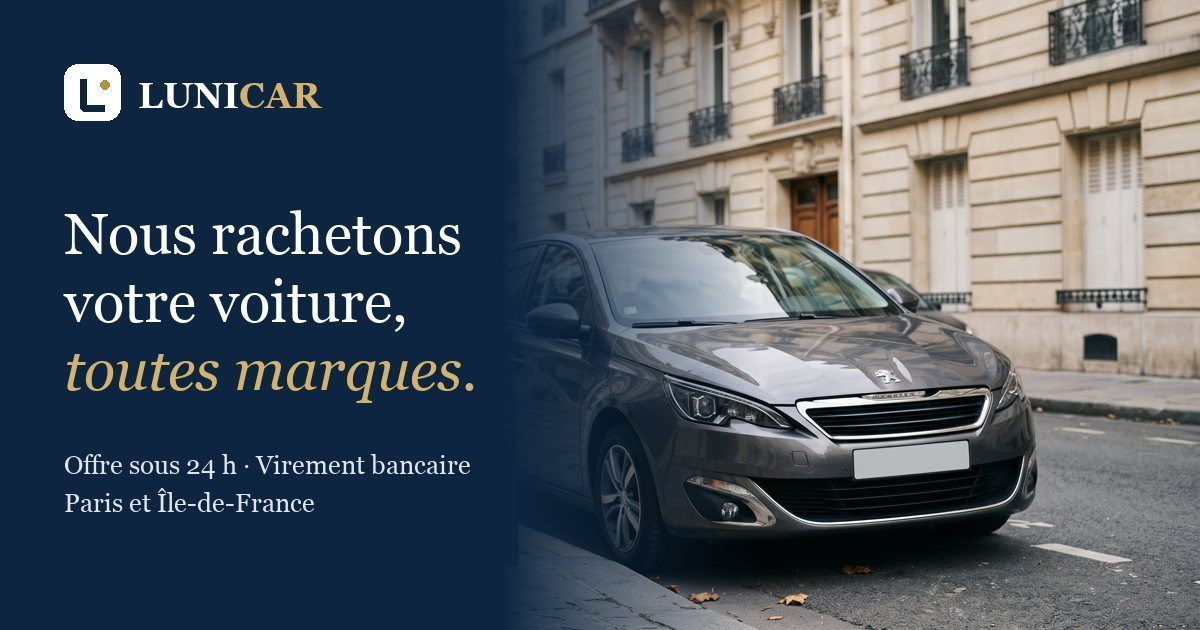
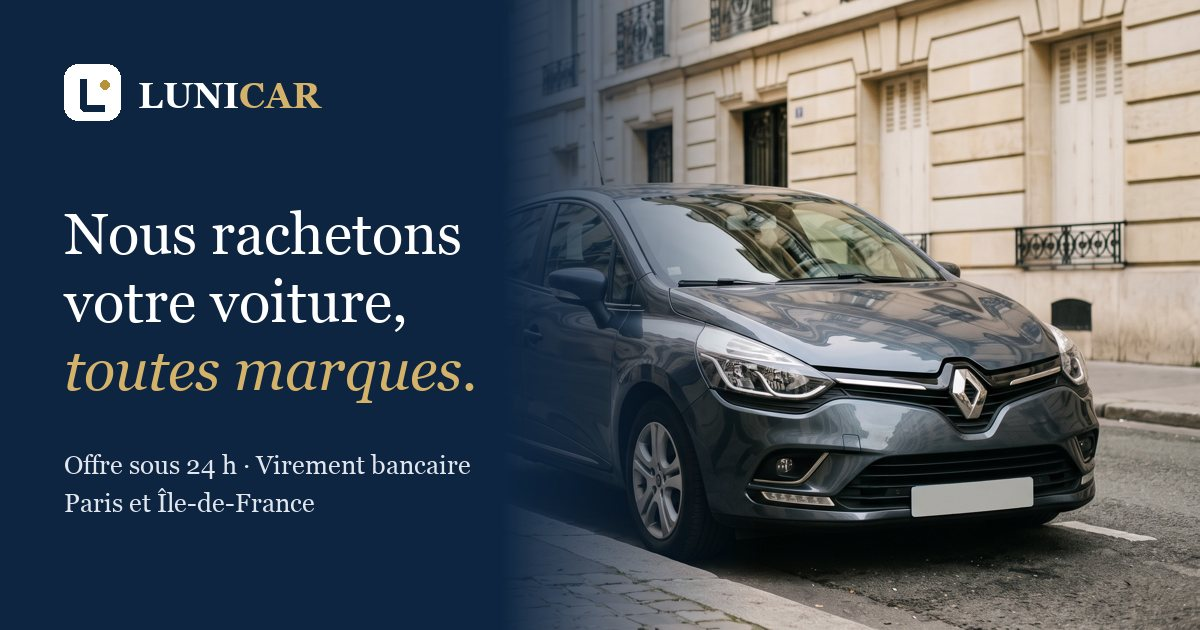
feat(design): Clio 4 en image d'accueil, photos versionnées
- Photo d'accueil : Renault Clio IV (phase 2) dans une rue haussmannienne,
  image de partage régénérée (tools/make_og.py, rejouable).
- Les photos et l'image OG sont appelées avec ?v=<version> : un navigateur ne
  peut plus afficher une ancienne photo gardée en cache 30 jours.
- Vitrine : colonne photo élargie, cadrage centré sur la voiture, saisie de
  plaque empilée pour ne plus tronquer l'immatriculation.

diff --git a/lib/layout.js b/lib/layout.js
@@ -475,7 +475,8 @@ function callback(title) {
 // Hero commun : texte à gauche, formulaire à droite (dessous sur mobile).
 function photo(name, alt, cls, eager) {
     if (!name) return '';
-    return `<picture class="${cls}"><img src="/images/photos/${name}-1600.webp" srcset="/images/photos/${name}-800.webp 800w, /images/photos/${name}-1600.webp 1600w" sizes="100vw" alt="${esc(alt || '')}" width="1600" height="893"${eager ? ' fetchpriority="high"' : ' loading="lazy" decoding="async"'}></picture>`;
+    const v = SITE.assetVersion;
+    return `<picture class="${cls}"><img src="/images/photos/${name}-1600.webp?v=${v}" srcset="/images/photos/${name}-800.webp?v=${v} 800w, /images/photos/${name}-1600.webp?v=${v} 1600w" sizes="100vw" alt="${esc(alt || '')}" width="1600" height="893"${eager ? ' fetchpriority="high"' : ' loading="lazy" decoding="async"'}></picture>`;
 }
 
 // Bande photo pleine largeur entre deux sections, avec légende.
@@ -644,7 +645,7 @@ function page(o) {
     <meta property="og:url" content="${url}">
     <meta property="og:title" content="${esc(o.ogTitle || o.title)}">
     <meta property="og:description" content="${esc(o.description)}">
-    <meta property="og:image" content="${SITE.baseUrl}/images/og-lunicar.jpg">
+    <meta property="og:image" content="${SITE.baseUrl}/images/og-lunicar.jpg?v=${v}">
     <meta property="og:image:width" content="1200">
     <meta property="og:image:height" content="630">
     <meta property="og:locale" content="fr_FR">
@@ -653,7 +654,7 @@ function page(o) {
     ${o.modified ? `<meta property="article:modified_time" content="${o.modified}">` : ''}
     <link rel="preload" href="/fonts/fraunces-normal.woff2" as="font" type="font/woff2" crossorigin>
     <link rel="preload" href="/fonts/dmsans-normal.woff2" as="font" type="font/woff2" crossorigin>
-    ${o.preloadImage ? `<link rel="preload" as="image" href="/images/photos/${o.preloadImage}-1600.webp" imagesrcset="/images/photos/${o.preloadImage}-800.webp 800w, /images/photos/${o.preloadImage}-1600.webp 1600w" imagesizes="100vw" fetchpriority="high">` : ''}
+    ${o.preloadImage ? `<link rel="preload" as="image" href="/images/photos/${o.preloadImage}-1600.webp?v=${v}" imagesrcset="/images/photos/${o.preloadImage}-800.webp?v=${v} 800w, /images/photos/${o.preloadImage}-1600.webp?v=${v} 1600w" imagesizes="100vw" fetchpriority="high">` : ''}
     <link rel="stylesheet" href="/css/app.css?v=${v}">
     <link rel="stylesheet" href="/css/cookie-consent.css?v=${v}">
     ${schemas}

diff --git a/public/css/app.css b/public/css/app.css
@@ -519,13 +519,15 @@ body { padding-bottom: var(--bar-h); }
     .contact-grid { grid-template-columns: .8fr 1.2fr; gap: 56px; }
     .footer-grid { grid-template-columns: 1.5fr 1fr 1fr .8fr; gap: 44px; }
     .pledges { grid-template-columns: repeat(3, 1fr); }
-    .showcase { grid-template-columns: minmax(0, 1fr) minmax(0, 1.05fr); min-height: 620px; }
+    .showcase { grid-template-columns: minmax(0, .9fr) minmax(0, 1.15fr); min-height: 620px; }
     .showcase-text { order: 1; display: flex; align-items: center; padding: 64px 0; }
     .showcase-in { margin-left: max(20px, calc((100vw - var(--wrap)) / 2 + 20px)); padding: 0 48px 0 0; max-width: 620px; }
     .showcase-photo { order: 2; }
+    .quick-row { grid-template-columns: 1fr; }
+    .quick .btn { width: 100%; }
     .showcase-img, .showcase-img img { height: 100%; }
-    .showcase-img img { position: absolute; inset: 0; object-position: 70% 55%; }
-    .showcase-photo::after { inset: 0 auto 0 0; width: 28%; height: auto; background: linear-gradient(90deg, var(--marine-800), transparent); }
+    .showcase-img img { position: absolute; inset: 0; object-position: 84% 62%; }
+    .showcase-photo::after { inset: 0 auto 0 0; width: 18%; height: auto; background: linear-gradient(90deg, var(--marine-800), transparent); }
     .offer-in { grid-template-columns: minmax(0, 1fr) minmax(380px, 460px); gap: 64px; align-items: start; }
     .offer-text { padding-top: 20px; }
 }

diff --git a/lib/pages.js b/lib/pages.js
@@ -111,7 +111,7 @@ ${L.showcase({
         h1: 'Nous rachetons votre voiture, <em>toutes marques, récentes ou non.</em>',
         lede: 'Décrivez-la en deux minutes. Un conseiller vous rappelle sous 24 h ouvrées avec une offre, vient à votre adresse et vous règle par virement bancaire. Sans annonce, sans visites, sans achat imposé.',
         image: 'accueil',
-        alt: 'Une Peugeot 308 grise garée dans une rue haussmannienne de Paris, un acheteur s\'en approche'
+        alt: 'Une Renault Clio 4 grise garée dans une rue haussmannienne de Paris, un acheteur s\'en approche'
     })}
 ${L.carTypes(null, 'Une citadine de trois ans, un SUV hybride, un utilitaire de société ou une berline qui ne démarre plus : chaque véhicule a un prix, et nous faisons une offre sur chacun.')}
 <section class="section section-ink offer" id="offre">

diff --git a/tools/make_og.py b/tools/make_og.py
@@ -1,0 +1,62 @@
+"""Image de partage (Open Graph) 1200 x 630 à partir de la photo d'accueil retenue.
+
+    python3 tools/make_og.py        # lit RETENUES["accueil"] dans generate_images.py
+
+Panneau marine à gauche (logo + accroche), photo de la voiture à droite, fondu entre les deux.
+Polices : Georgia (macOS), à défaut la police par défaut de Pillow.
+"""
+import re
+from pathlib import Path
+from PIL import Image, ImageDraw, ImageFont
+
+ROOT = Path(__file__).resolve().parents[1]
+W, H, PHOTO_W, FADE = 1200, 630, 700, 260
+NAVY, GOLD, GOLD_DARK, PALE = (13, 37, 65), (212, 178, 106), (184, 146, 58), (225, 230, 238)
+FONTS = Path('/System/Library/Fonts/Supplemental')
+
+
+def font(name, size):
+    try:
+        return ImageFont.truetype(str(FONTS / name), size)
+    except OSError:
+        return ImageFont.load_default()
+
+
+def main():
+    n = int(re.search(r'"accueil":\s*(\d+)', (ROOT / 'tools' / 'generate_images.py').read_text()).group(1))
+    photo = Image.open(ROOT / '.image-raw' / f'accueil-{n:02d}.jpg').convert('RGB')
+    pw, ph = photo.size
+    # Moitié droite de la photo (la voiture), recadrée au format du panneau.
+    left = int(pw * 0.42)
+    h = int((pw - left) * H / PHOTO_W)
+    crop = photo.crop((left, max(0, ph - h), pw, ph)).resize((PHOTO_W, H))
+    mask = Image.new('L', (PHOTO_W, H), 255)
+    md = ImageDraw.Draw(mask)
+    for x in range(FADE):
+        md.line([(x, 0), (x, H)], fill=int(255 * x / FADE))
+    img = Image.new('RGB', (W, H), NAVY)
+    img.paste(Image.composite(crop, Image.new('RGB', (PHOTO_W, H), NAVY), mask), (W - PHOTO_W, 0))
+
+    d = ImageDraw.Draw(img)
+    x0, y0 = 64, 64
+    d.rounded_rectangle([x0, y0, x0 + 56, y0 + 56], radius=14, fill=(255, 255, 255))
+    d.line([(x0 + 19, y0 + 15), (x0 + 19, y0 + 44), (x0 + 40, y0 + 44)], fill=NAVY, width=7, joint='curve')
+    d.ellipse([x0 + 36, y0 + 16, x0 + 45, y0 + 25], fill=GOLD_DARK)
+    bold = font('Georgia Bold.ttf', 36)
+    d.text((x0 + 74, y0 + 10), 'LUNI', font=bold, fill=(255, 255, 255))
+    d.text((x0 + 74 + d.textlength('LUNI', font=bold), y0 + 10), 'CAR', font=bold, fill=GOLD)
+
+    big, it, small = font('Georgia.ttf', 58), font('Georgia Italic.ttf', 58), font('Georgia.ttf', 26)
+    d.text((64, 200), 'Nous rachetons', font=big, fill=(255, 255, 255))
+    d.text((64, 268), 'votre voiture,', font=big, fill=(255, 255, 255))
+    d.text((64, 336), 'toutes marques.', font=it, fill=GOLD)
+    d.text((64, 450), 'Offre sous 24 h · Virement bancaire', font=small, fill=PALE)
+    d.text((64, 488), 'Paris et Île-de-France', font=small, fill=PALE)
+
+    out = ROOT / 'public' / 'images' / 'og-lunicar.jpg'
+    img.save(out, quality=84, optimize=True, progressive=True)
+    print(out, out.stat().st_size)
+
+
+if __name__ == '__main__':
+    main()

diff --git a/tools/generate_images.py b/tools/generate_images.py
@@ -22,12 +22,12 @@ PRIX_2K = 0.101  # $ par image 2K (1 680 jetons à 60 $/M)
 
 # Variante retenue par scène après relecture (numéro du fichier dans .image-raw).
 RETENUES = {
-    "accueil": 5, "recente": 2, "electrique": 1, "panne": 1, "sans-ct": 1, "accidentee": 2,
+    "accueil": 8, "recente": 2, "electrique": 1, "panne": 1, "sans-ct": 1, "accidentee": 2,
     "cash": 1, "utilitaire": 2, "ile-de-france": 1, "signature": 2,
 }
 
 SCENES = {
-    "accueil": "a dark grey 2017 Peugeot 308 hatchback (second generation, facelift: slim swept-back headlights with LED signature, full-width black grille) in very clean condition, parked along a Parisian street lined with cream-coloured Haussmann stone buildings and wrought-iron balconies; a used-car buyer in a dark navy jacket seen from behind walks towards it holding a tablet at his side; soft early-morning light, the car is the hero of the frame, three-quarter front view",
+    "accueil": "a 2018 Renault Clio IV hatchback (fourth generation, 2016 facelift: C-shaped LED daytime running lights, chrome-trimmed grille with large diamond-shaped badge area, smooth rounded bodywork, five doors with hidden rear door handles in the window frame), metallic dark grey, very clean condition, parked along a Parisian street lined with cream-coloured Haussmann stone buildings and wrought-iron balconies; a used-car buyer in a dark navy jacket seen from behind walks towards it holding a tablet at his side; soft early-morning light, the car is the hero of the frame, three-quarter front view, the car on the right half of the frame",
     "recente": "a nearly new white compact SUV parked in a bright modern residential car park in the Paris suburbs, two people seen only from the shoulders down standing by the open driver door, one handing a car key to the other; clean contemporary architecture, daylight",
     "electrique": "a modern dark blue electric hatchback plugged into a public charging station on a quiet tree-lined Paris street in the late afternoon, a person seen strictly from behind unplugging the charging cable, wet pavement reflecting warm light",
     "panne": "an old grey compact car being slowly winched onto the tilted bed of a flatbed tow truck in a quiet residential street of a Paris suburb, a man seen from behind operating the winch lever, late-afternoon light",
